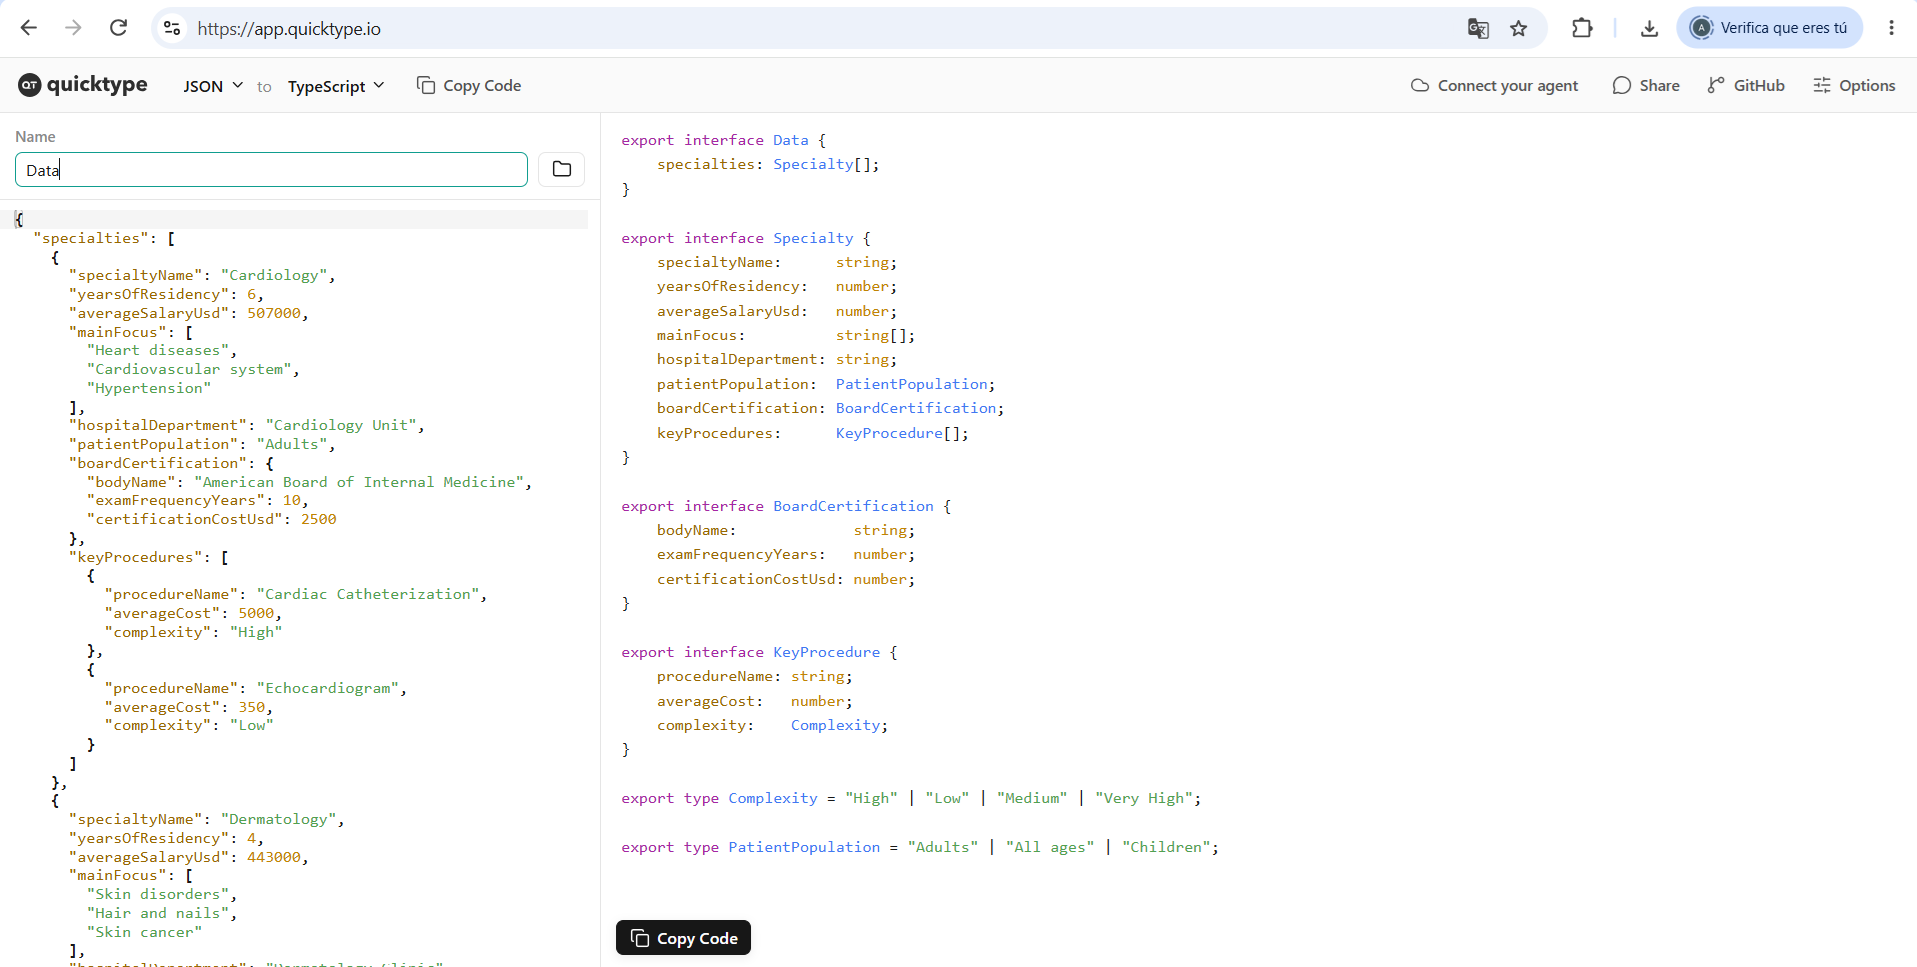
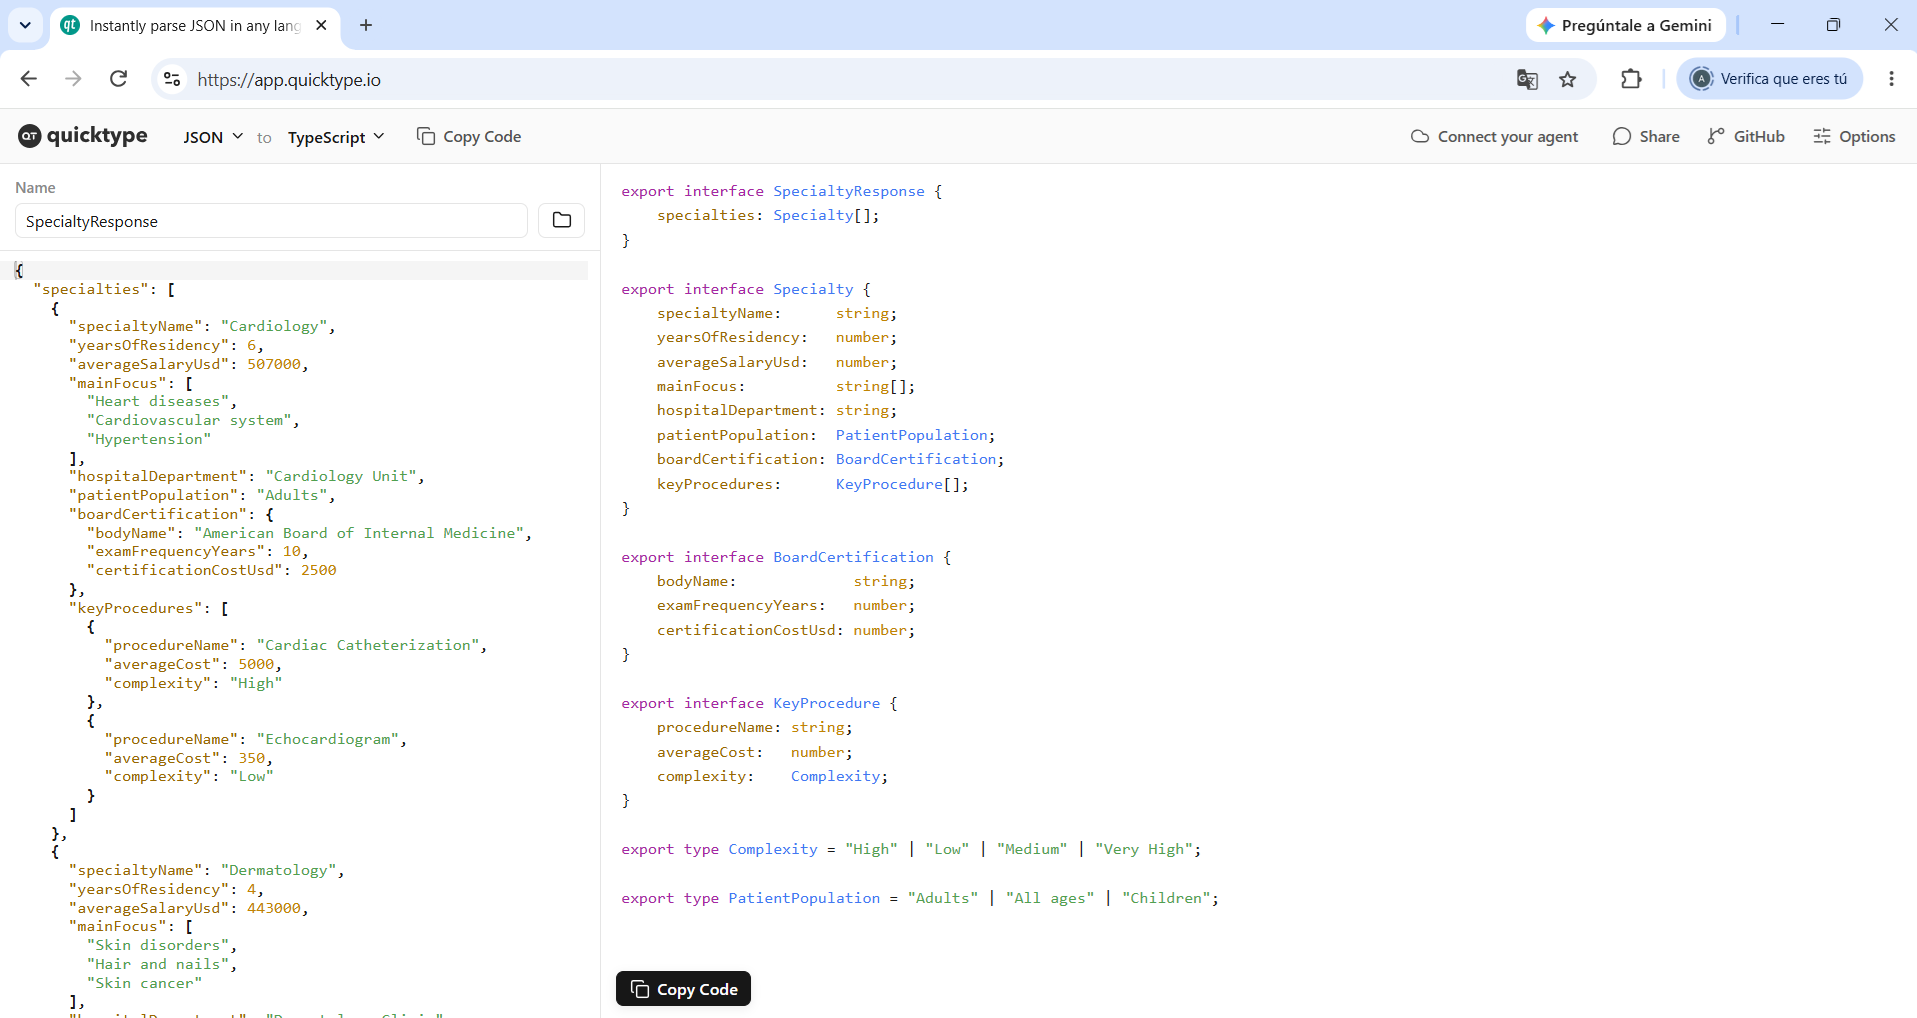
docs: update 6

diff --git a/manual/MANUAL.md b/manual/MANUAL.md
@@ -93,3 +93,14 @@ Después debes ejecutar este comando y, como siempre, eliminar el archivo que te
 ng g service medical/application/medical --type=store
 ```
 
+Finalmente, para terminar con esta carpeta, ejecuta este comando para crear la capa presentation:
+
+```bash
+ng g c medical/presentation/medical-page/medical-page
+```
+
+Así debe quedar:
+
+<img src="imagenes/medical_structure3.png">
+
+<img src="">
